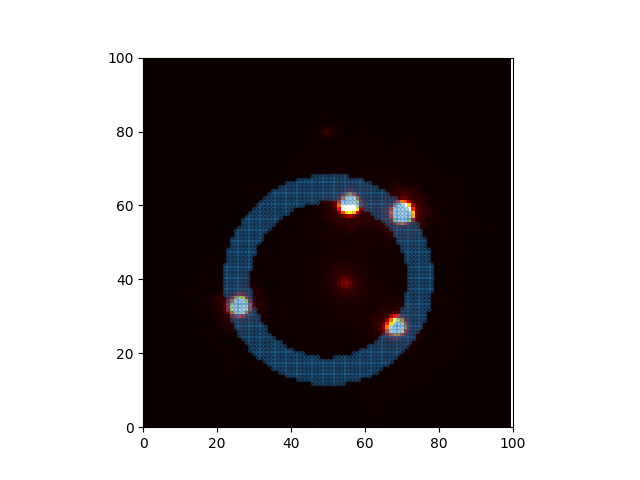
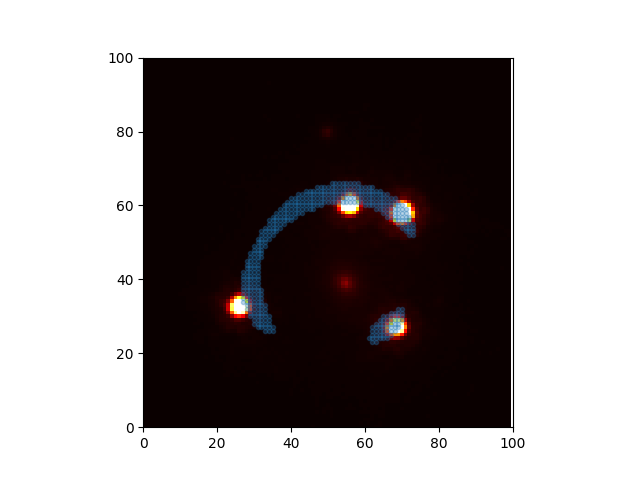
Reversed np.where function because it returns (yIndexes, xIndexes). This was a major cause of issues previously.

Changed region(s): [[0.3438, 0.3438, 0.6875, 0.8125]]

diff --git a/lensing/get_img_pos.py b/lensing/get_img_pos.py
@@ -50,13 +50,8 @@ def plot_img_pos(pars, pix_scale=1., threshold=0.8, fits_file=None, img_xobs=Non
     lens = MassModels.SIE('', {'x': LX, 'y': LY, 'b': LB, 'q': LQ, 'pa': LP})
     shear = MassModels.ExtShear('',{'x':LX,'y':LY,'b':XB,'pa':XP})
     lenses = [lens]
-    # # OR MY MODEL I have checked that they get the same answer
-    # x_lens, y_lens, theta, b, q = (51.5, 39.9, 1.1, 21.6, 1.0)
-    # pars = (x_lens, y_lens, theta, b, q)
 
     x, y = np.meshgrid(np.arange(sa[0], sa[1], pix_scale), np.arange(sa[0], sa[1], pix_scale))
-
-    # x_src, y_src = pred_positions(x, y, d=1, pars=pars)
 
     image_plane, image_coords_pred = {}, {}
     for name in ['A', 'B']:
@@ -67,7 +62,7 @@ def plot_img_pos(pars, pix_scale=1., threshold=0.8, fits_file=None, img_xobs=Non
         plt.xlabel('%dx - %d pixels' % (pix_scale, sa[0]))
         plt.ylabel('%dy - %d pixels' % (pix_scale, sa[0]))
         plt.savefig(os.path.join(ROOT_DIR, fig_dir, 'image_plane%s.png' % name))
-        image_coords_pred[name] = np.add(np.multiply(np.where(image_plane[name] > threshold), pix_scale), sa[0])
+        image_coords_pred[name] = np.add(np.multiply(np.where(image_plane[name] > threshold)[::-1], pix_scale), sa[0])
         print(name, image_coords_pred[name])
 
     fig = plt.figure()
@@ -146,8 +141,8 @@ def get_macs0451_img_pos(pix_scale=1., threshold=0.8, fits_file=None, img_xobs=N
     x, y = np.meshgrid(np.arange(sa[0], sa[1], pix_scale), np.arange(sa[0], sa[1], pix_scale))
 
     # MCMC setup
-    nwalkers = 1000
-    nsteps = 4000
+    nwalkers = 100
+    nsteps = 1000
 
     # Define likelihood function
     @pymc.observed
@@ -164,7 +159,7 @@ def get_macs0451_img_pos(pix_scale=1., threshold=0.8, fits_file=None, img_xobs=N
 
             # Get list of predicted image coordinates
             image_plane = srcs[name].pixeval(x_src, y_src)
-            image_coords_pred = np.add(np.multiply(np.where(image_plane > threshold), pix_scale), sa[0])  # Only if brightness > threshold
+            image_coords_pred = np.add(np.multiply(np.where(image_plane > threshold)[::-1], pix_scale), sa[0])  # Only if brightness > threshold
 
             if not image_coords_pred.size:  # If it's an empty list
                 return -1e30
@@ -191,7 +186,7 @@ def get_macs0451_img_pos(pix_scale=1., threshold=0.8, fits_file=None, img_xobs=N
         return sum(lnlike.values())
 
     # Run MCMC
-    sampler = myEmcee.Emcee(pars+[logL], cov, nwalkers=nwalkers, nthreads=30)
+    sampler = myEmcee.Emcee(pars+[logL], cov, nwalkers=nwalkers, nthreads=44)
     sampler.sample(nsteps)
 
     # Plot chains
@@ -231,7 +226,7 @@ def get_macs0451_img_pos(pix_scale=1., threshold=0.8, fits_file=None, img_xobs=N
 
     b = best
     print(b)
-    plot_img_pos(pars=b, pix_scale=pix_scale, threshold=threshold, fits_file=fits_file, img_xobs=img_xobs, img_yobs=img_yobs)
+    plot_img_pos(pars=b, pix_scale=pix_scale, threshold=threshold, fits_file=fits_file, img_xobs=img_xobs, img_yobs=img_yobs, d=d)
 
     # print(image_coords_pred)
     # plt.show()
@@ -239,25 +234,24 @@ def get_macs0451_img_pos(pix_scale=1., threshold=0.8, fits_file=None, img_xobs=N
 
 
 def main():
-    fits_file_macs0451 = '/Users/danmuth/PycharmProjects/StrongLensing/data/MACS0451/MACS0451_F110W.fits'
+    fits_file_macs0451 = '/home/djm241/PycharmProjects/StrongLensing/data/MACS0451/MACS0451_F110W.fits'
+
     # Observed Image positions
     img_xobs, img_yobs, d = {}, {}, {}
     z_lens = 0.43
     img_xobs['A'] = np.array([2375.942110, 2378.5, 2379.816610, 2381.299088, 2384, 2385.927991, 2389.555816, 2457.694760, 2450.744242, 2442.833333, 2437.857924, 2433.064587, 2427.166666, 2424.099866, 2418.5, 2416.444081, 2462])
     img_yobs['A'] = np.array([3038.016677, 3024, 3012.367933, 2999.365293, 2983.5, 2970.435199, 2955.945319, 2737.545077, 2752.305849, 2766.166666, 2782.058508, 2795.293450, 2811.166666, 2823.079067, 2837.5, 2846.943113, 2728])
-    d['A'] = scale_einstein_radius(z_lens=z_lens, z_src=2.01)
 
+    d['A'] = scale_einstein_radius(z_lens=z_lens, z_src=2.01)
     img_xobs['B'] = np.array([3276.693717, 3261.382557, 3427.351819, 3417.043471])
     img_yobs['B'] = np.array([3482.795501, 3482.854177, 2592.719350, 2590.191799])
     d['B'] = scale_einstein_radius(z_lens=z_lens, z_src=1.405)
 
-
-
     pix_scale = 10.
     threshold = 0.01
     pars = [3.05918823e+03,   3.04371268e+03,  5.13143731e+00,   3.01632534e+03, 3.27858853e+03, 5.57104944e+00, 3.10821667e+03, 3.24988038e+03, 1.06301319e+03,   6.76368456e-01,   7.40971734e+01]
-    plot_img_pos(pars, pix_scale=pix_scale, threshold=threshold, fits_file=fits_file_macs0451, img_xobs=img_xobs, img_yobs=img_yobs, d=d)
-    # get_macs0451_img_pos(pix_scale=pix_scale, threshold=threshold, fits_file=fits_file_macs0451, img_xobs=img_xobs, img_yobs=img_yobs, d=d)
+    # plot_img_pos(pars, pix_scale=pix_scale, threshold=threshold, fits_file=fits_file_macs0451, img_xobs=img_xobs, img_yobs=img_yobs, d=d)
+    get_macs0451_img_pos(pix_scale=pix_scale, threshold=threshold, fits_file=fits_file_macs0451, img_xobs=img_xobs, img_yobs=img_yobs, d=d)
 
     plt.show()
 

diff --git a/lensing/get_img_pos_quasar.py b/lensing/get_img_pos_quasar.py
@@ -56,7 +56,7 @@ def plot_img_pos(pars, pix_scale=1., threshold=0.8, fits_file=None, img_xobs=Non
         plt.xlabel('%dx - %d pixels' % (pix_scale, sa[0]))
         plt.ylabel('%dy - %d pixels' % (pix_scale, sa[0]))
         plt.savefig(os.path.join(ROOT_DIR, fig_dir, 'image_plane%s.png' % name))
-        image_coords_pred[name] = np.add(np.multiply(np.where(image_plane[name] > threshold), pix_scale), sa[0])
+        image_coords_pred[name] = np.add(np.multiply(np.where(image_plane[name] > threshold), pix_scale)[::-1], sa[0])
 
         lnlike, img_xpred_compare, img_ypred_compare = calc_lnlike(image_coords_pred[name], img_xobs[name], img_yobs[name])
 
@@ -149,7 +149,7 @@ def get_quasar_img_pos(pix_scale=1., threshold=0.8, fits_file=None, img_xobs=Non
 
             # Get list of predicted image coordinates
             image_plane = srcs[name].pixeval(x_src, y_src)
-            image_coords_pred = np.add(np.multiply(np.where(image_plane > threshold), pix_scale), sa[0])  # Only if brightness > threshold
+            image_coords_pred = np.add(np.multiply(np.where(image_plane > threshold), pix_scale)[::-1], sa[0])  # Only if brightness > threshold
 
             if not image_coords_pred.size:  # If it's an empty list
                 return -1e30
@@ -182,15 +182,8 @@ def get_quasar_img_pos(pix_scale=1., threshold=0.8, fits_file=None, img_xobs=Non
     # Plot chains
     result = sampler.result()
     posterior, samples, _, best = result
-    print posterior[90]
-
-    print samples[90]
     print best
 
-    minarg = np.argmin(posterior)
-    print(minarg)
-    print(posterior[minarg])
-    print("samplesmin", samples[minarg])
     import pylab
     for j in range(nwalkers):
         pylab.plot(posterior[:, j])
@@ -223,7 +216,7 @@ def get_quasar_img_pos(pix_scale=1., threshold=0.8, fits_file=None, img_xobs=Non
 
     b = best
     print(b)
-    plot_img_pos(pars=b, pix_scale=pix_scale, threshold=threshold, fits_file=fits_file, img_xobs=img_xobs, img_yobs=img_yobs)
+    plot_img_pos(pars=b, pix_scale=pix_scale, threshold=threshold, fits_file=fits_file, img_xobs=img_xobs, img_yobs=img_yobs, d=d)
 
     # print(image_coords_pred)
     # plt.show()
@@ -231,7 +224,7 @@ def get_quasar_img_pos(pix_scale=1., threshold=0.8, fits_file=None, img_xobs=Non
 
 
 def main():
-    fits_file = '/Users/danmuth/PycharmProjects/StrongLensing/data/lensed_quasar/WFI2033_F814W.fits'
+    fits_file = '/home/djm241/PycharmProjects/StrongLensing/data/lensed_quasar/WFI2033_F814W.fits'
 
     # Observed Image positions
     img_xobs, img_yobs, d = {}, {}, {}
@@ -240,12 +233,11 @@ def main():
     img_yobs['A'] = np.array([33.6946, 28.1791, 58.9579, 61.2290])
     d['A'] = scale_einstein_radius(z_lens=z_lens, z_src=2.01)
 
-
     pix_scale = 1.
     threshold = 0.8
-    pars = [ 40.05539297, 50.05217837,  5.47422693, 39.05739221, 50.16109415, 36.36017755,  0.97131709, -41.46158563]
-    plot_img_pos(pars, pix_scale=pix_scale, threshold=threshold, fits_file=fits_file, img_xobs=img_xobs, img_yobs=img_yobs, d=d)
-    # get_quasar_img_pos(pix_scale=pix_scale, threshold=threshold, fits_file=fits_file, img_xobs=img_xobs, img_yobs=img_yobs, d=d)
+    pars = [  51.63853012, 42.01441355,  4.19782456, 53.78385282, 40.6113934, 32.57773203,  0.66409627, 125.49369795]
+    # plot_img_pos(pars, pix_scale=pix_scale, threshold=threshold, fits_file=fits_file, img_xobs=img_xobs, img_yobs=img_yobs, d=d)
+    get_quasar_img_pos(pix_scale=pix_scale, threshold=threshold, fits_file=fits_file, img_xobs=img_xobs, img_yobs=img_yobs, d=d)
 
     plt.show()
 
